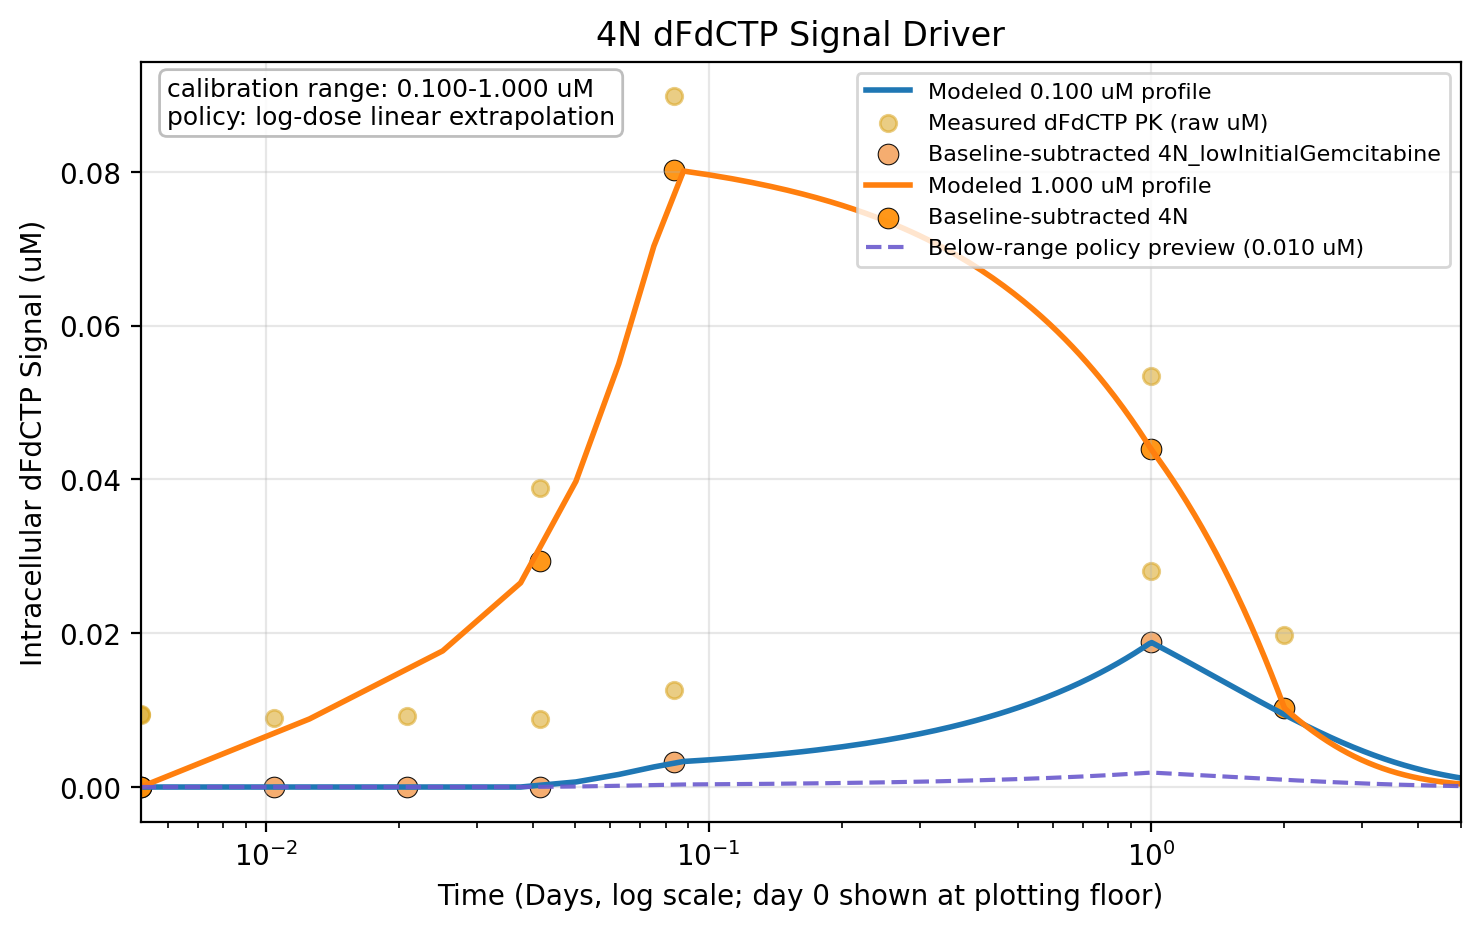
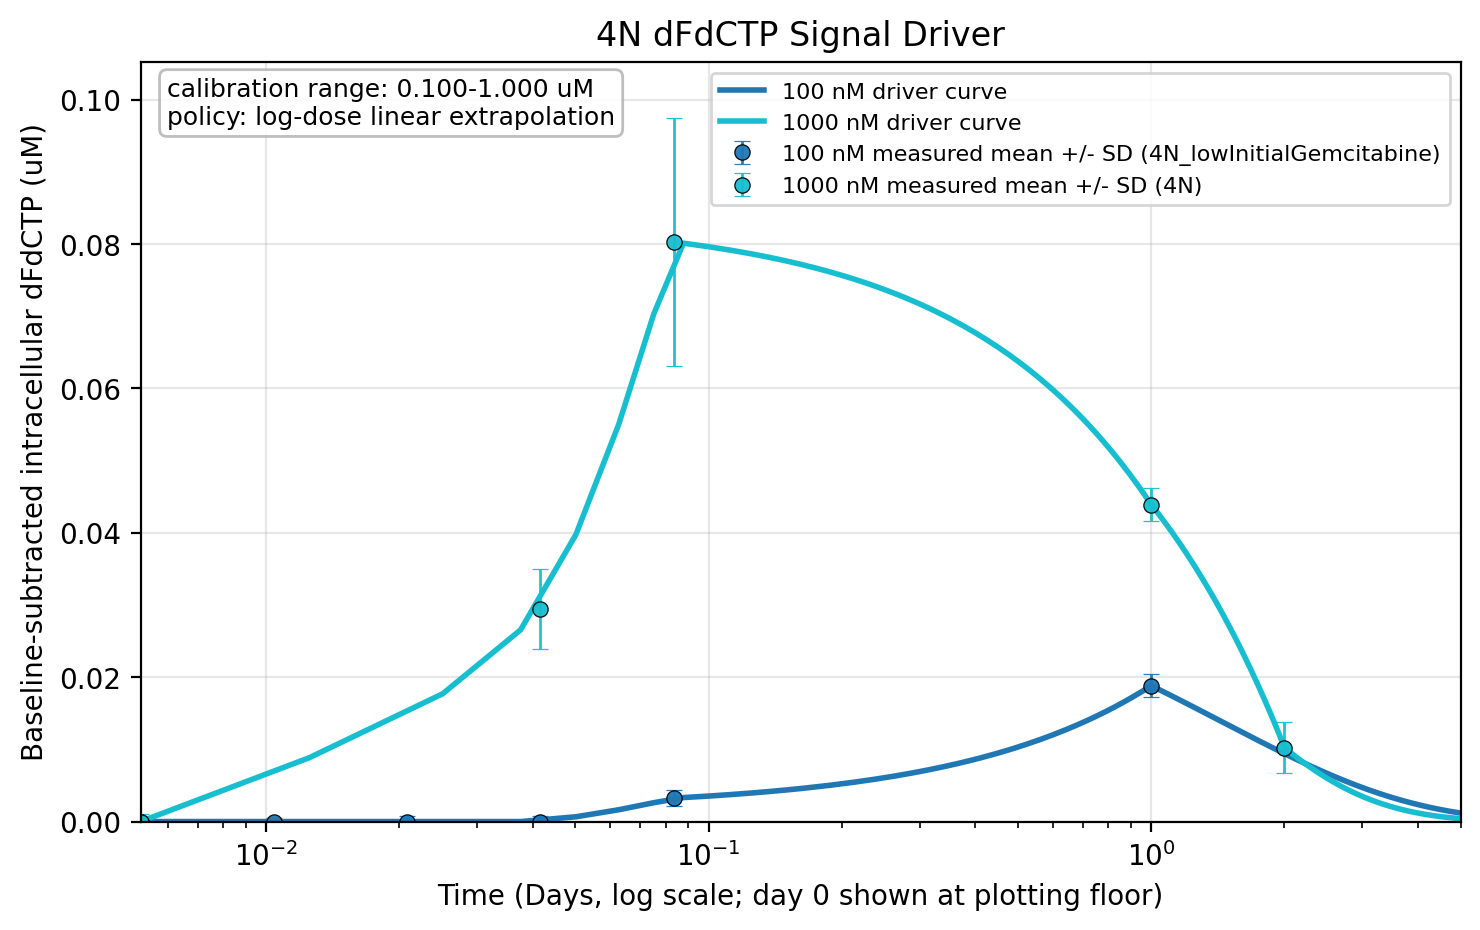
Clarify dFdCTP calibration plots
Replace the per-ploidy dFdCTP signal plot styling with dose-consistent driver curves and measured mean +/- SD points, carrying replicate counts and SDs through DfdctpDoseProfile.

Apply a shared y-axis limit across the 2N and 4N dFdCTP calibration plots so their signal amplitudes are directly comparable in both saved-summary plotting and the full fitting workflow.

Regenerated dfdctp_signal_curve_2n.png and dfdctp_signal_curve_4n.png for the imported alsoGoodFit and bestFitSoFar saved-fit output folders.

Validation: ran python3 -m py_compile on the PKPD fitting module and plotters; reran the saved-summary plotter for alsoGoodFit_20260514T093906 and bestFitSoFar_20260513T164159 with --skip-cohort --skip-dose-comparison; visually checked the regenerated 2N and 4N dFdCTP plots for matching y-axis ranges.

diff --git a/Code/in-vitro/pkpd_live_dead_model/src/invitro_fitting.py b/Code/in-vitro/pkpd_live_dead_model/src/invitro_fitting.py
@@ -670,8 +670,11 @@ class DfdctpDoseProfile:
     dose_uM: float
     analyte_column: str
     time_days: np.ndarray
+    replicate_count_values: np.ndarray
     raw_signal_uM_values: np.ndarray
+    raw_signal_uM_sd_values: np.ndarray
     induced_signal_uM_values: np.ndarray
+    induced_signal_uM_sd_values: np.ndarray
     peak_signal_uM: float
     peak_time_days: float
     tail_half_life_days: float
@@ -1265,11 +1268,45 @@ def save_pk_tail_diagnostics(
     diagnostics_df.to_csv(output_path, sep="\t", index=False)
     return output_path
 
+
+def get_dfdctp_signal_curve_y_limits(
+    curves_by_ploidy: Dict[str, DfdctpSignalSurface],
+) -> Tuple[float, float]:
+    y_max_values = []
+    for curve in curves_by_ploidy.values():
+        if len(curve.calibration_profiles_by_dose) == 0:
+            continue
+        max_time = max(
+            float(profile.time_days.max())
+            for profile in curve.calibration_profiles_by_dose.values()
+            if len(profile.time_days) > 0
+        )
+        t_grid = np.linspace(0.0, max(5.0, max_time), 400)
+        for dose in curve.calibration_doses_uM:
+            modeled_signal = np.asarray(curve(t_grid, float(dose)), dtype=float)
+            if np.any(np.isfinite(modeled_signal)):
+                y_max_values.append(float(np.nanmax(modeled_signal)))
+            profile = curve.calibration_profiles_by_dose[float(dose)]
+            measured_upper = np.asarray(profile.induced_signal_uM_values, dtype=float) + np.where(
+                np.isfinite(profile.induced_signal_uM_sd_values),
+                np.asarray(profile.induced_signal_uM_sd_values, dtype=float),
+                0.0,
+            )
+            if np.any(np.isfinite(measured_upper)):
+                y_max_values.append(float(np.nanmax(measured_upper)))
+
+    y_max = max(y_max_values) if y_max_values else 1.0
+    if not np.isfinite(y_max) or y_max <= 0:
+        y_max = 1.0
+    return 0.0, y_max * 1.08
+
+
 def plot_dfdctp_signal_curve(
     ploidy_label: str,
     curve: DfdctpSignalSurface,
     output_dir: Optional[Path] = None,
     close_fig: bool = True,
+    y_limits: Optional[Tuple[float, float]] = None,
 ):
     """
     Plots measured and modeled baseline-subtracted intracellular dFdCTP signal.
@@ -1287,53 +1324,53 @@ def plot_dfdctp_signal_curve(
     log_time_floor = min_positive_time / 2.0
     t_grid = np.linspace(0.0, max(5.0, max_time), 400)
     t_plot_grid = np.maximum(t_grid, log_time_floor)
+    color_values = plt.cm.tab10(np.linspace(0.0, 1.0, max(len(curve.calibration_doses_uM), 1)))
+    dose_colors = {
+        float(dose): color
+        for dose, color in zip(curve.calibration_doses_uM, color_values)
+    }
 
     fig, ax = plt.subplots(figsize=(7.5, 4.8))
-    for idx, dose in enumerate(curve.calibration_doses_uM):
+    for dose in curve.calibration_doses_uM:
+        dose = float(dose)
+        dose_label = f"{dose * 1000.0:g} nM"
         profile = curve.calibration_profiles_by_dose[float(dose)]
         modeled_signal = curve(t_grid, float(dose))
+        color = dose_colors[dose]
         ax.plot(
             t_plot_grid,
             modeled_signal,
+            color=color,
             linewidth=2.0,
-            label=f"Modeled {dose:.3f} uM profile",
+            label=f"{dose_label} driver curve",
         )
         if len(profile.time_days) > 0:
             time_plot = np.maximum(np.asarray(profile.time_days, dtype=float), log_time_floor)
-            ax.scatter(
-                time_plot,
-                profile.raw_signal_uM_values,
-                s=35,
-                alpha=0.55,
-                label="Measured dFdCTP PK (raw uM)" if idx == 0 else None,
-                color="goldenrod",
+            yerr = np.where(
+                np.isfinite(profile.induced_signal_uM_sd_values),
+                profile.induced_signal_uM_sd_values,
+                0.0,
             )
-            ax.scatter(
+            ax.errorbar(
                 time_plot,
                 profile.induced_signal_uM_values,
-                s=55,
-                alpha=0.9,
-                label=f"Baseline-subtracted {profile.sheet_name}",
-                color="darkorange" if dose == np.max(curve.calibration_doses_uM) else "sandybrown",
-                edgecolor="black",
-                linewidth=0.4,
+                yerr=yerr,
+                fmt="o",
+                markersize=5.5,
+                capsize=3.0,
+                elinewidth=1.0,
+                alpha=0.95,
+                color=color,
+                markeredgecolor="black",
+                markeredgewidth=0.45,
+                label=f"{dose_label} measured mean +/- SD ({profile.sheet_name})",
             )
-    if curve.min_calibration_dose_uM > 0:
-        preview_dose = curve.min_calibration_dose_uM / 10.0
-        preview_signal = curve(t_grid, preview_dose)
-        ax.plot(
-            t_plot_grid,
-            preview_signal,
-            linestyle="--",
-            linewidth=1.5,
-            color="slateblue",
-            alpha=0.9,
-            label=f"Below-range policy preview ({preview_dose:.3f} uM)",
-        )
     ax.set_xscale("log")
     ax.set_xlim(log_time_floor, max(5.0, max_time))
+    if y_limits is not None:
+        ax.set_ylim(*y_limits)
     ax.set_xlabel("Time (Days, log scale; day 0 shown at plotting floor)")
-    ax.set_ylabel("Intracellular dFdCTP Signal (uM)")
+    ax.set_ylabel("Baseline-subtracted intracellular dFdCTP (uM)")
     ax.set_title(f"{ploidy_label} dFdCTP Signal Driver")
     ax.text(
         0.02,
@@ -1407,25 +1444,56 @@ def plot_dfdctp_amplitude_scaling(
     elif close_fig:
         plt.close(fig)
 
-def extract_mean_dfdctp_signal_profile(
+def extract_dfdctp_signal_summary(
     df: pd.DataFrame,
     analyte: str = "dFdCTP (ng/mL)",
     molecular_weight_ng_per_nmol: float = DFDCTP_MOLECULAR_WEIGHT_NG_PER_NMOL,
-) -> Tuple[np.ndarray, np.ndarray]:
-    """Returns mean dFdCTP measurements converted from ng/mL to intracellular uM."""
+) -> Tuple[np.ndarray, np.ndarray, np.ndarray, np.ndarray]:
+    """Returns per-timepoint dFdCTP replicate counts, means, and SDs in uM."""
     if "Timepoint" not in df.columns or analyte not in df.columns:
-        return np.array([], dtype=float), np.array([], dtype=float)
+        return (
+            np.array([], dtype=float),
+            np.array([], dtype=int),
+            np.array([], dtype=float),
+            np.array([], dtype=float),
+        )
 
-    mean_data = df.groupby("Timepoint")[analyte].mean().dropna()
-    if mean_data.empty:
-        return np.array([], dtype=float), np.array([], dtype=float)
+    data = df[["Timepoint", analyte]].copy()
+    data[analyte] = pd.to_numeric(data[analyte], errors="coerce")
+    data = data.dropna(subset=["Timepoint", analyte])
+    if data.empty:
+        return (
+            np.array([], dtype=float),
+            np.array([], dtype=int),
+            np.array([], dtype=float),
+            np.array([], dtype=float),
+        )
 
-    time_days = mean_data.index.to_numpy(dtype=float) / 24.0
-    concentration_uM_values = dfdctp_ng_per_ml_to_uM(
-        mean_data.to_numpy(dtype=float),
+    grouped = data.groupby("Timepoint", sort=True)[analyte]
+    summary = grouped.agg(["count", "mean", "std"]).dropna(subset=["mean"])
+    if summary.empty:
+        return (
+            np.array([], dtype=float),
+            np.array([], dtype=int),
+            np.array([], dtype=float),
+            np.array([], dtype=float),
+        )
+
+    time_days = summary.index.to_numpy(dtype=float) / 24.0
+    mean_uM_values = dfdctp_ng_per_ml_to_uM(
+        summary["mean"].to_numpy(dtype=float),
         molecular_weight_ng_per_nmol=molecular_weight_ng_per_nmol,
     )
-    return time_days, np.asarray(concentration_uM_values, dtype=float)
+    sd_uM_values = dfdctp_ng_per_ml_to_uM(
+        summary["std"].to_numpy(dtype=float),
+        molecular_weight_ng_per_nmol=molecular_weight_ng_per_nmol,
+    )
+    return (
+        time_days,
+        summary["count"].to_numpy(dtype=int),
+        np.asarray(mean_uM_values, dtype=float),
+        np.asarray(sd_uM_values, dtype=float),
+    )
 
 def baseline_subtract_treatment_induced_signal(signal_uM) -> np.ndarray:
     """
@@ -1451,7 +1519,7 @@ def build_dfdctp_profile_from_sheet(
     """
     Builds a mean baseline-subtracted dFdCTP profile from one PK sheet.
     """
-    time_days, raw_signal_uM = extract_mean_dfdctp_signal_profile(
+    time_days, replicate_counts, raw_signal_uM, raw_signal_uM_sd = extract_dfdctp_signal_summary(
         df,
         analyte=analyte,
         molecular_weight_ng_per_nmol=molecular_weight_ng_per_nmol,
@@ -1460,6 +1528,7 @@ def build_dfdctp_profile_from_sheet(
         return None
 
     induced_signal_uM = baseline_subtract_treatment_induced_signal(raw_signal_uM)
+    induced_signal_uM_sd = np.asarray(raw_signal_uM_sd, dtype=float)
     if not np.any(np.isfinite(induced_signal_uM)):
         return None
 
@@ -1527,8 +1596,11 @@ def build_dfdctp_profile_from_sheet(
         dose_uM=float(reference_dose_uM),
         analyte_column=analyte,
         time_days=np.asarray(time_days, dtype=float),
+        replicate_count_values=np.asarray(replicate_counts, dtype=int),
         raw_signal_uM_values=np.asarray(raw_signal_uM, dtype=float),
+        raw_signal_uM_sd_values=np.asarray(raw_signal_uM_sd, dtype=float),
         induced_signal_uM_values=np.asarray(induced_signal_uM, dtype=float),
+        induced_signal_uM_sd_values=np.asarray(induced_signal_uM_sd, dtype=float),
         peak_signal_uM=peak_signal_uM,
         peak_time_days=time_of_peak_days,
         tail_half_life_days=tail_half_life_days,
@@ -5243,6 +5315,7 @@ def main(
             raise ValueError(f"Requested fit dose labels are absent from the modeling dataset: {missing_doses}")
         gem_doses = [dose for dose in gem_doses if dose in requested_doses]
     live_dead_dose_uM_values = [float(dose.split()[0]) / 1000.0 for dose in gem_doses if dose != "0 nM"]
+    dfdctp_y_limits = get_dfdctp_signal_curve_y_limits(dfdctp_signal_curve_by_ploidy)
 
     for ploidy_key in ["2N", "4N"]:
         print_dfdctp_signal_curve_summary(
@@ -5250,7 +5323,12 @@ def main(
             dfdctp_signal_curve_by_ploidy[ploidy_key],
             live_dead_dose_uM_values=live_dead_dose_uM_values,
         )
-        plot_dfdctp_signal_curve(ploidy_key, dfdctp_signal_curve_by_ploidy[ploidy_key], output_dir=paths.output_dir)
+        plot_dfdctp_signal_curve(
+            ploidy_key,
+            dfdctp_signal_curve_by_ploidy[ploidy_key],
+            output_dir=paths.output_dir,
+            y_limits=dfdctp_y_limits,
+        )
         plot_dfdctp_amplitude_scaling(ploidy_key, dfdctp_signal_curve_by_ploidy[ploidy_key], output_dir=paths.output_dir)
 
     trajectories = build_joint_fit_trajectories(

diff --git a/Code/in-vitro/pkpd_live_dead_model/plot_invitro_fit_outputs.py b/Code/in-vitro/pkpd_live_dead_model/plot_invitro_fit_outputs.py
@@ -1186,8 +1186,14 @@ def main() -> None:
     curves_by_ploidy = build_dfdctp_surfaces()
     if not args.skip_dfdctp:
         invitro_fitting.save_pk_tail_diagnostics(curves_by_ploidy, output_folder)
+        dfdctp_y_limits = invitro_fitting.get_dfdctp_signal_curve_y_limits(curves_by_ploidy)
         for ploidy in ("2N", "4N"):
-            invitro_fitting.plot_dfdctp_signal_curve(ploidy, curves_by_ploidy[ploidy], output_dir=output_folder)
+            invitro_fitting.plot_dfdctp_signal_curve(
+                ploidy,
+                curves_by_ploidy[ploidy],
+                output_dir=output_folder,
+                y_limits=dfdctp_y_limits,
+            )
             invitro_fitting.plot_dfdctp_amplitude_scaling(ploidy, curves_by_ploidy[ploidy], output_dir=output_folder)
         plot_combined_dfdctp_signal_curves(curves_by_ploidy, dfdctp_path)
         plot_effective_dfdctp_signal_curves(best_row, fit_config, curves_by_ploidy, effective_dfdctp_path)
